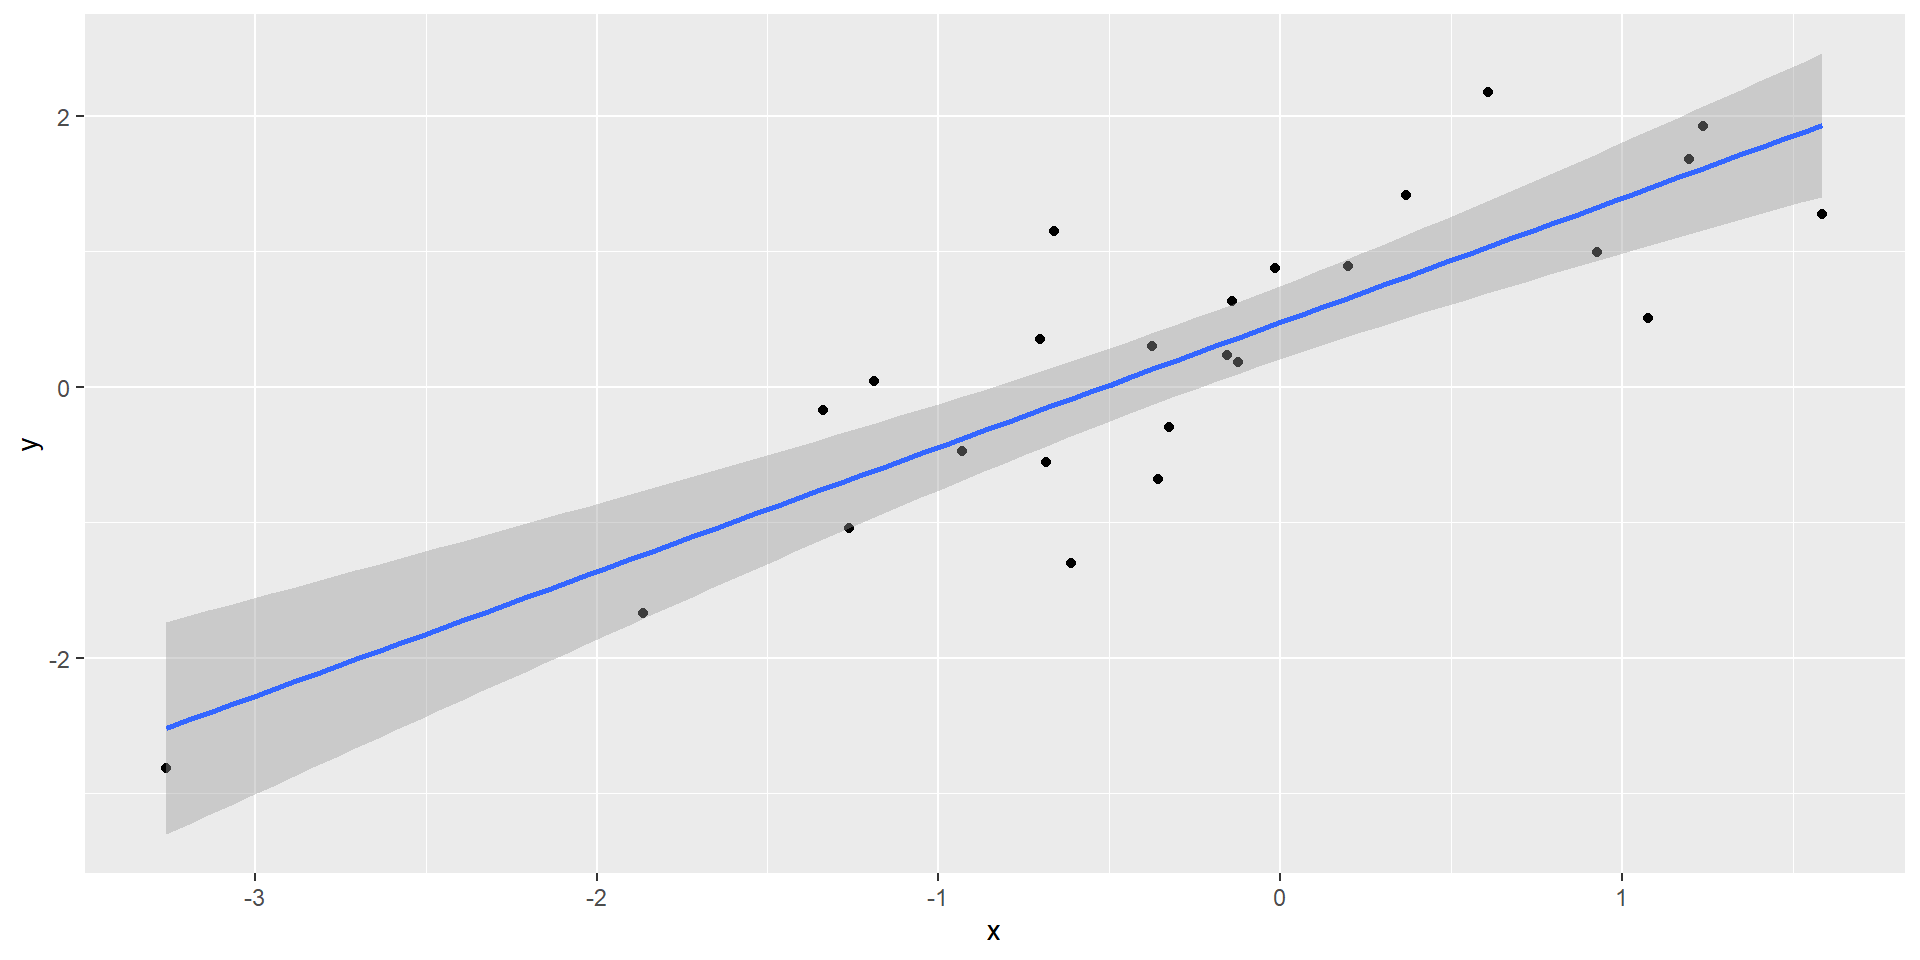
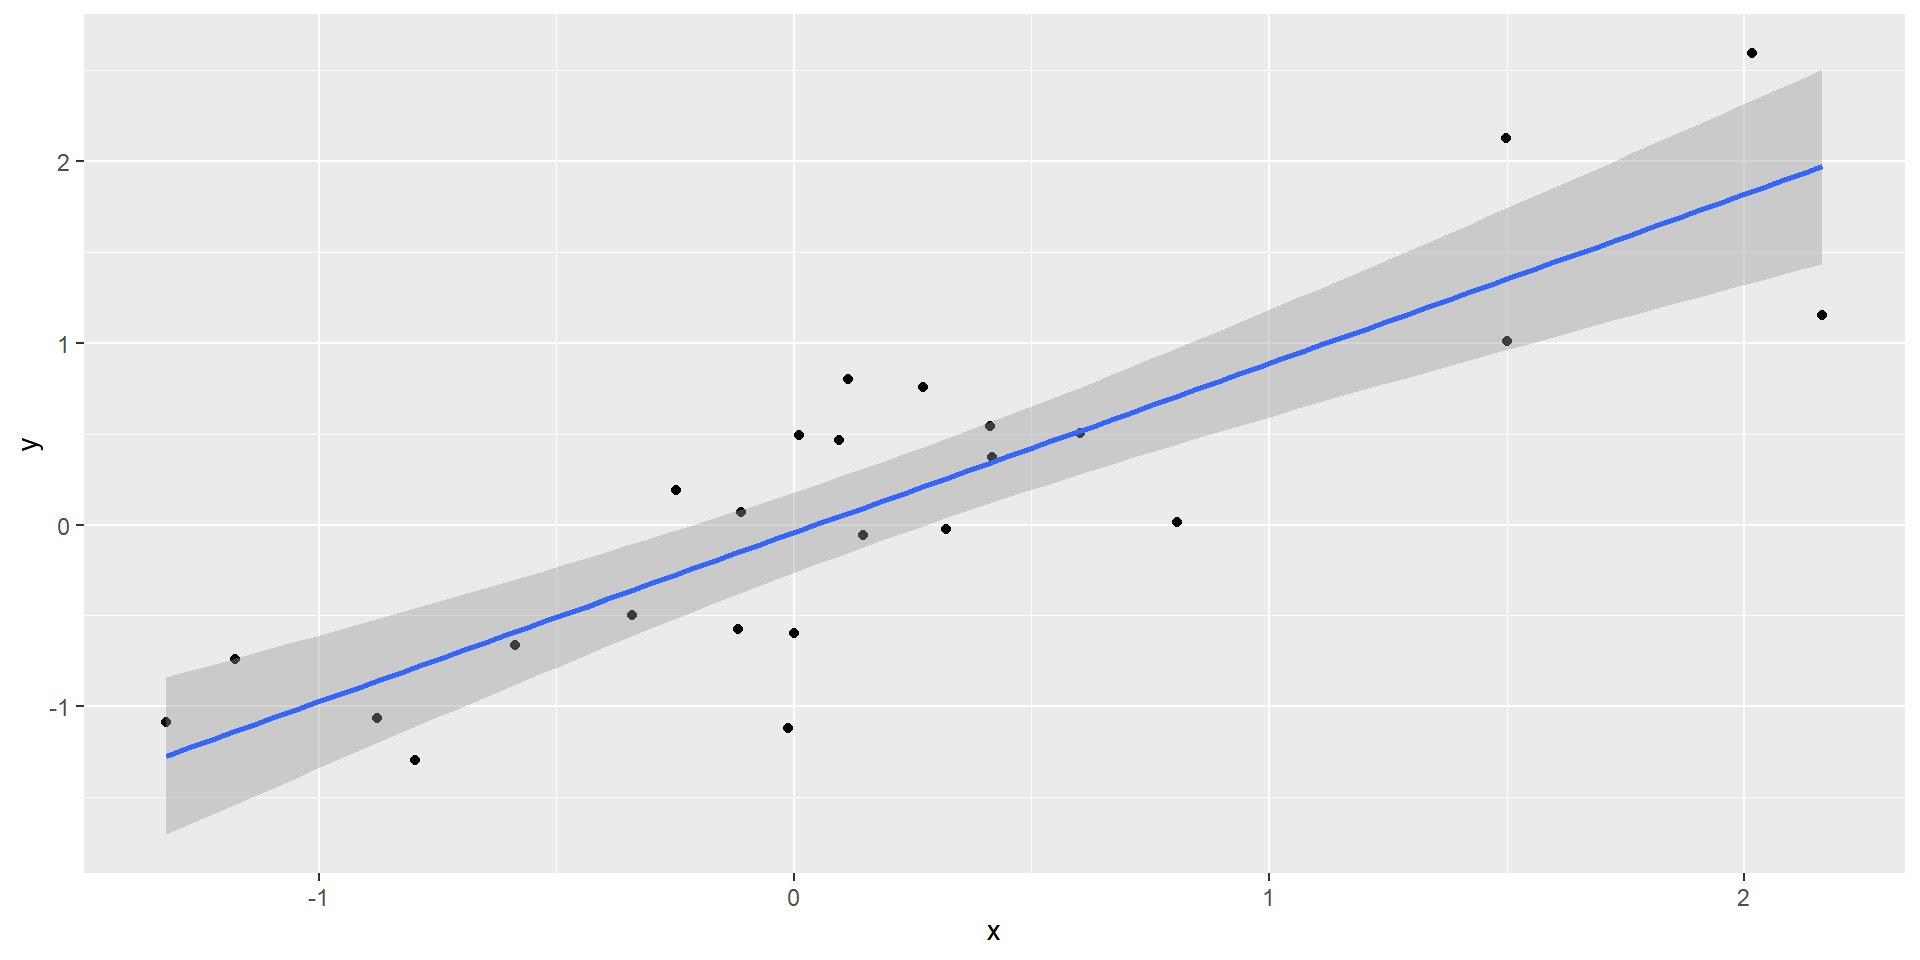
Add problem set 7 and update date for causation slides.

Changed region(s): [[0.0625, 0.0625, 0.9688, 0.7812], [0.2188, 0.7188, 0.25, 0.75], [0.1875, 0.75, 0.2188, 0.7812]]

diff --git a/docs/slides/other-topics/45-association-not-causation.html b/docs/slides/other-topics/45-association-not-causation.html
@@ -9,7 +9,7 @@
 <link href="../../site_libs/quarto-html/quarto-syntax-highlighting-dark-2fef5ea3f8957b3e4ecc936fc74692ca.css" rel="stylesheet" id="quarto-text-highlighting-styles"><meta charset="utf-8">
   <meta name="generator" content="quarto-1.7.32">
 
-  <meta name="dcterms.date" content="2025-12-15">
+  <meta name="dcterms.date" content="2025-11-17">
   <meta name="keywords" content="Other topics">
   <title>BST 260: Introduction to Data Science – Association Not Causation</title>
   <meta name="apple-mobile-web-app-capable" content="yes">
@@ -199,7 +199,7 @@
 <div class="quarto-title-authors">
 </div>
 
-  <p class="date">2025-12-15</p>
+  <p class="date">2025-11-17</p>
 </section>
 <section id="association-is-not-causation" class="slide level2">
 <h2>Association is not causation</h2>
@@ -252,21 +252,21 @@
 <pre><code># A tibble: 1,000,000 × 2
     group     r
     &lt;int&gt; &lt;dbl&gt;
- 1 517486 0.848
- 2 416499 0.792
- 3 345725 0.774
- 4 484939 0.772
- 5 284055 0.764
- 6 981803 0.764
- 7 234848 0.758
- 8 787818 0.755
- 9 195228 0.755
-10 346492 0.749
+ 1 240928 0.851
+ 2 805635 0.827
+ 3 913345 0.819
+ 4 756824 0.806
+ 5 431479 0.805
+ 6 970715 0.796
+ 7 272216 0.769
+ 8  46457 0.768
+ 9 312056 0.756
+10 826733 0.754
 # ℹ 999,990 more rows</code></pre>
 </div>
 </div>
 <ul>
-<li>We see a maximum correlation of 0.848.</li>
+<li>We see a maximum correlation of 0.851.</li>
 </ul>
 </section>
 <section id="spurious-correlation-4" class="slide level2">
@@ -307,7 +307,7 @@
 <pre><code># A tibble: 1 × 5
   term  estimate std.error statistic      p.value
   &lt;chr&gt;    &lt;dbl&gt;     &lt;dbl&gt;     &lt;dbl&gt;        &lt;dbl&gt;
-1 x        0.919     0.120      7.69 0.0000000847</code></pre>
+1 x        0.930     0.120      7.76 0.0000000721</code></pre>
 </div>
 </div>
 </section>

diff --git a/docs/slides.html b/docs/slides.html
@@ -842,7 +842,7 @@ Date
 
 </tr>
 
-<tr data-index="45" data-listing-date-sort="1765774800000" data-listing-file-modified-sort="1756098636167" data-listing-date-modified-sort="NaN" data-listing-reading-time-sort="10" data-listing-word-count-sort="1807" data-listing-title-sort="Association Not Causation" data-listing-filename-sort="45-association-not-causation.qmd">
+<tr data-index="45" data-listing-date-sort="1763355600000" data-listing-file-modified-sort="1761168381601" data-listing-date-modified-sort="NaN" data-listing-reading-time-sort="10" data-listing-word-count-sort="1807" data-listing-title-sort="Association Not Causation" data-listing-filename-sort="45-association-not-causation.qmd">
 <td>
 <span class="listing-keywords">Other topics</span>
 </td>
@@ -850,7 +850,7 @@ Date
 <a href="./slides/other-topics/45-association-not-causation.html" class="title listing-title">Association Not Causation</a>
 </td>
 <td>
-<span class="listing-date">Mon, Dec 15</span>
+<span class="listing-date">Mon, Nov 17</span>
 </td>
 
 </tr>

diff --git a/docs/psets.html b/docs/psets.html
@@ -312,6 +312,16 @@ Due date (at 11:59 PM)
 
 </tr>
 
+<tr data-index="6" data-listing-date-sort="1762318800000" data-listing-file-modified-sort="1760563738922" data-listing-date-modified-sort="NaN" data-listing-reading-time-sort="8" data-listing-word-count-sort="1444" data-listing-title-sort="Problem set 7" data-listing-filename-sort="pset-07-election.qmd">
+<td>
+<a href="./psets/pset-07-election.html" class="title listing-title">Problem set 7</a>
+</td>
+<td>
+<span class="listing-date">Wed, Nov 05</span>
+</td>
+
+</tr>
+
 </tbody>
 </table>
 <div class="listing-no-matching d-none">No matching items</div>

diff --git a/docs/index.html b/docs/index.html
@@ -406,7 +406,7 @@ ul.task-list li input[type="checkbox"] {
 <td style="text-align: left;">easy</td>
 </tr>
 <tr class="odd">
-<td style="text-align: left;">Problem Set 7</td>
+<td style="text-align: left;"><a href="./psets/pset-07-election.html">Problem Set 7</a></td>
 <td style="text-align: left;">Predict the election</td>
 <td style="text-align: left;">Nov 05</td>
 <td style="text-align: left;">hard</td>
